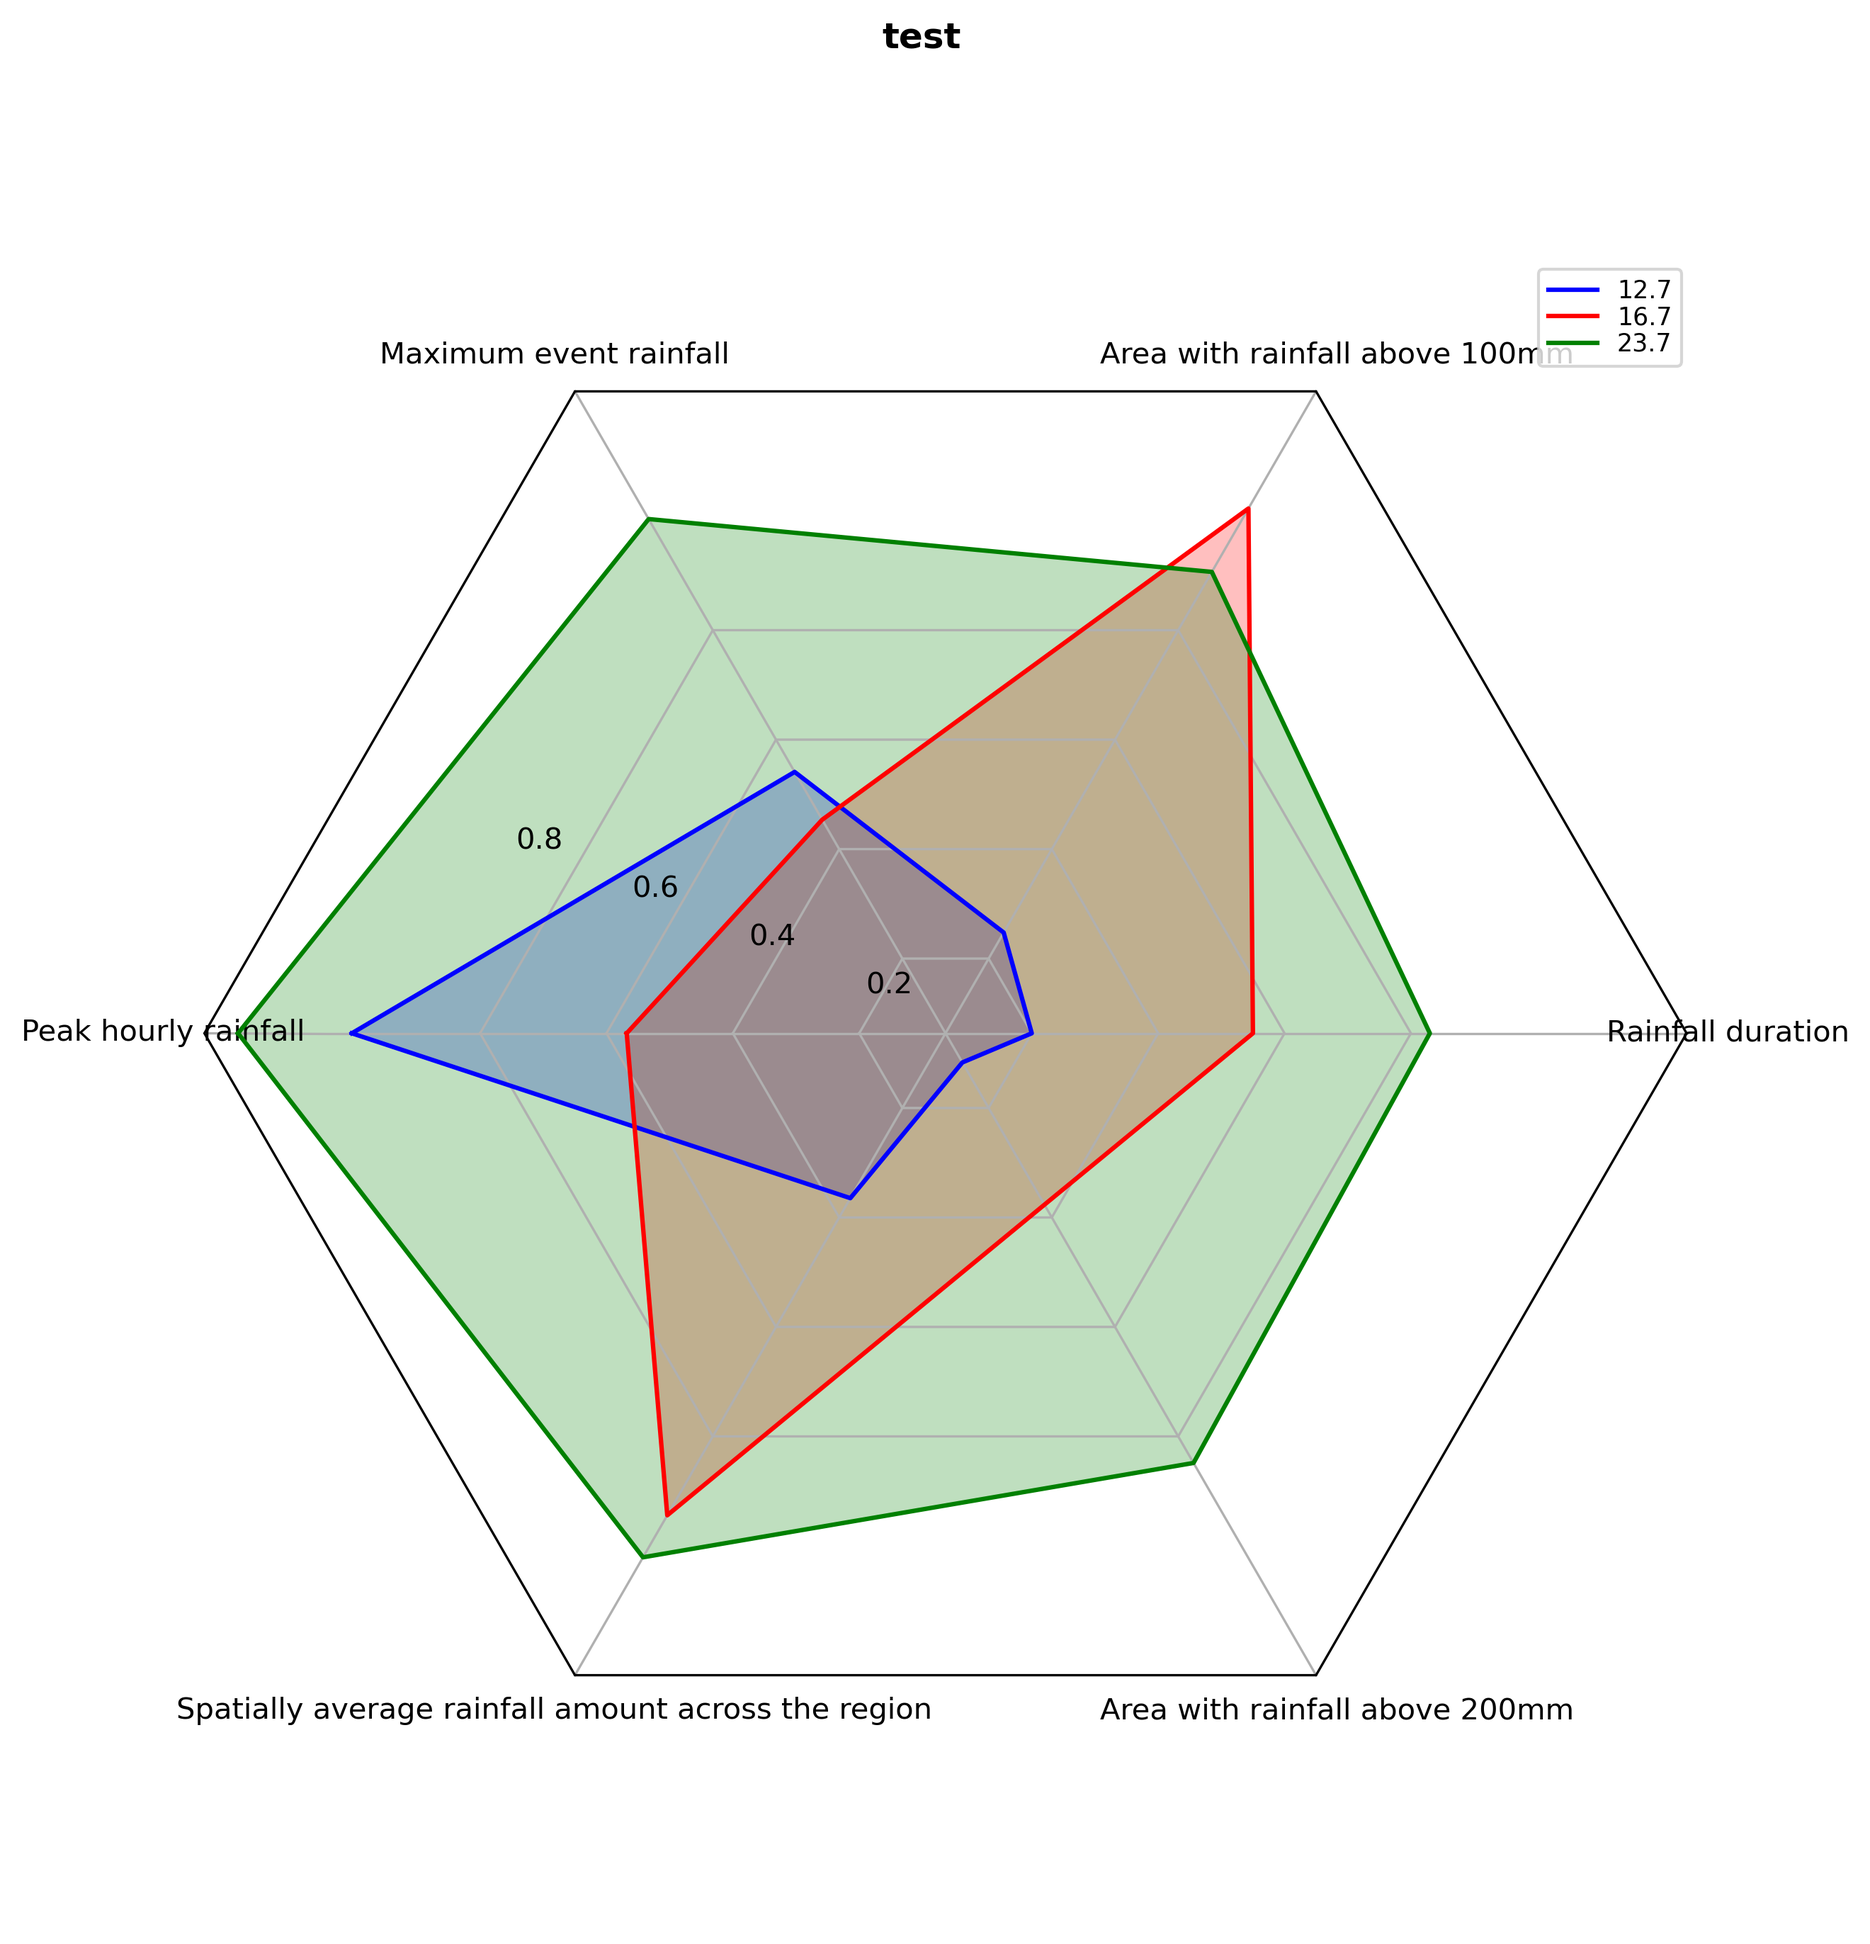
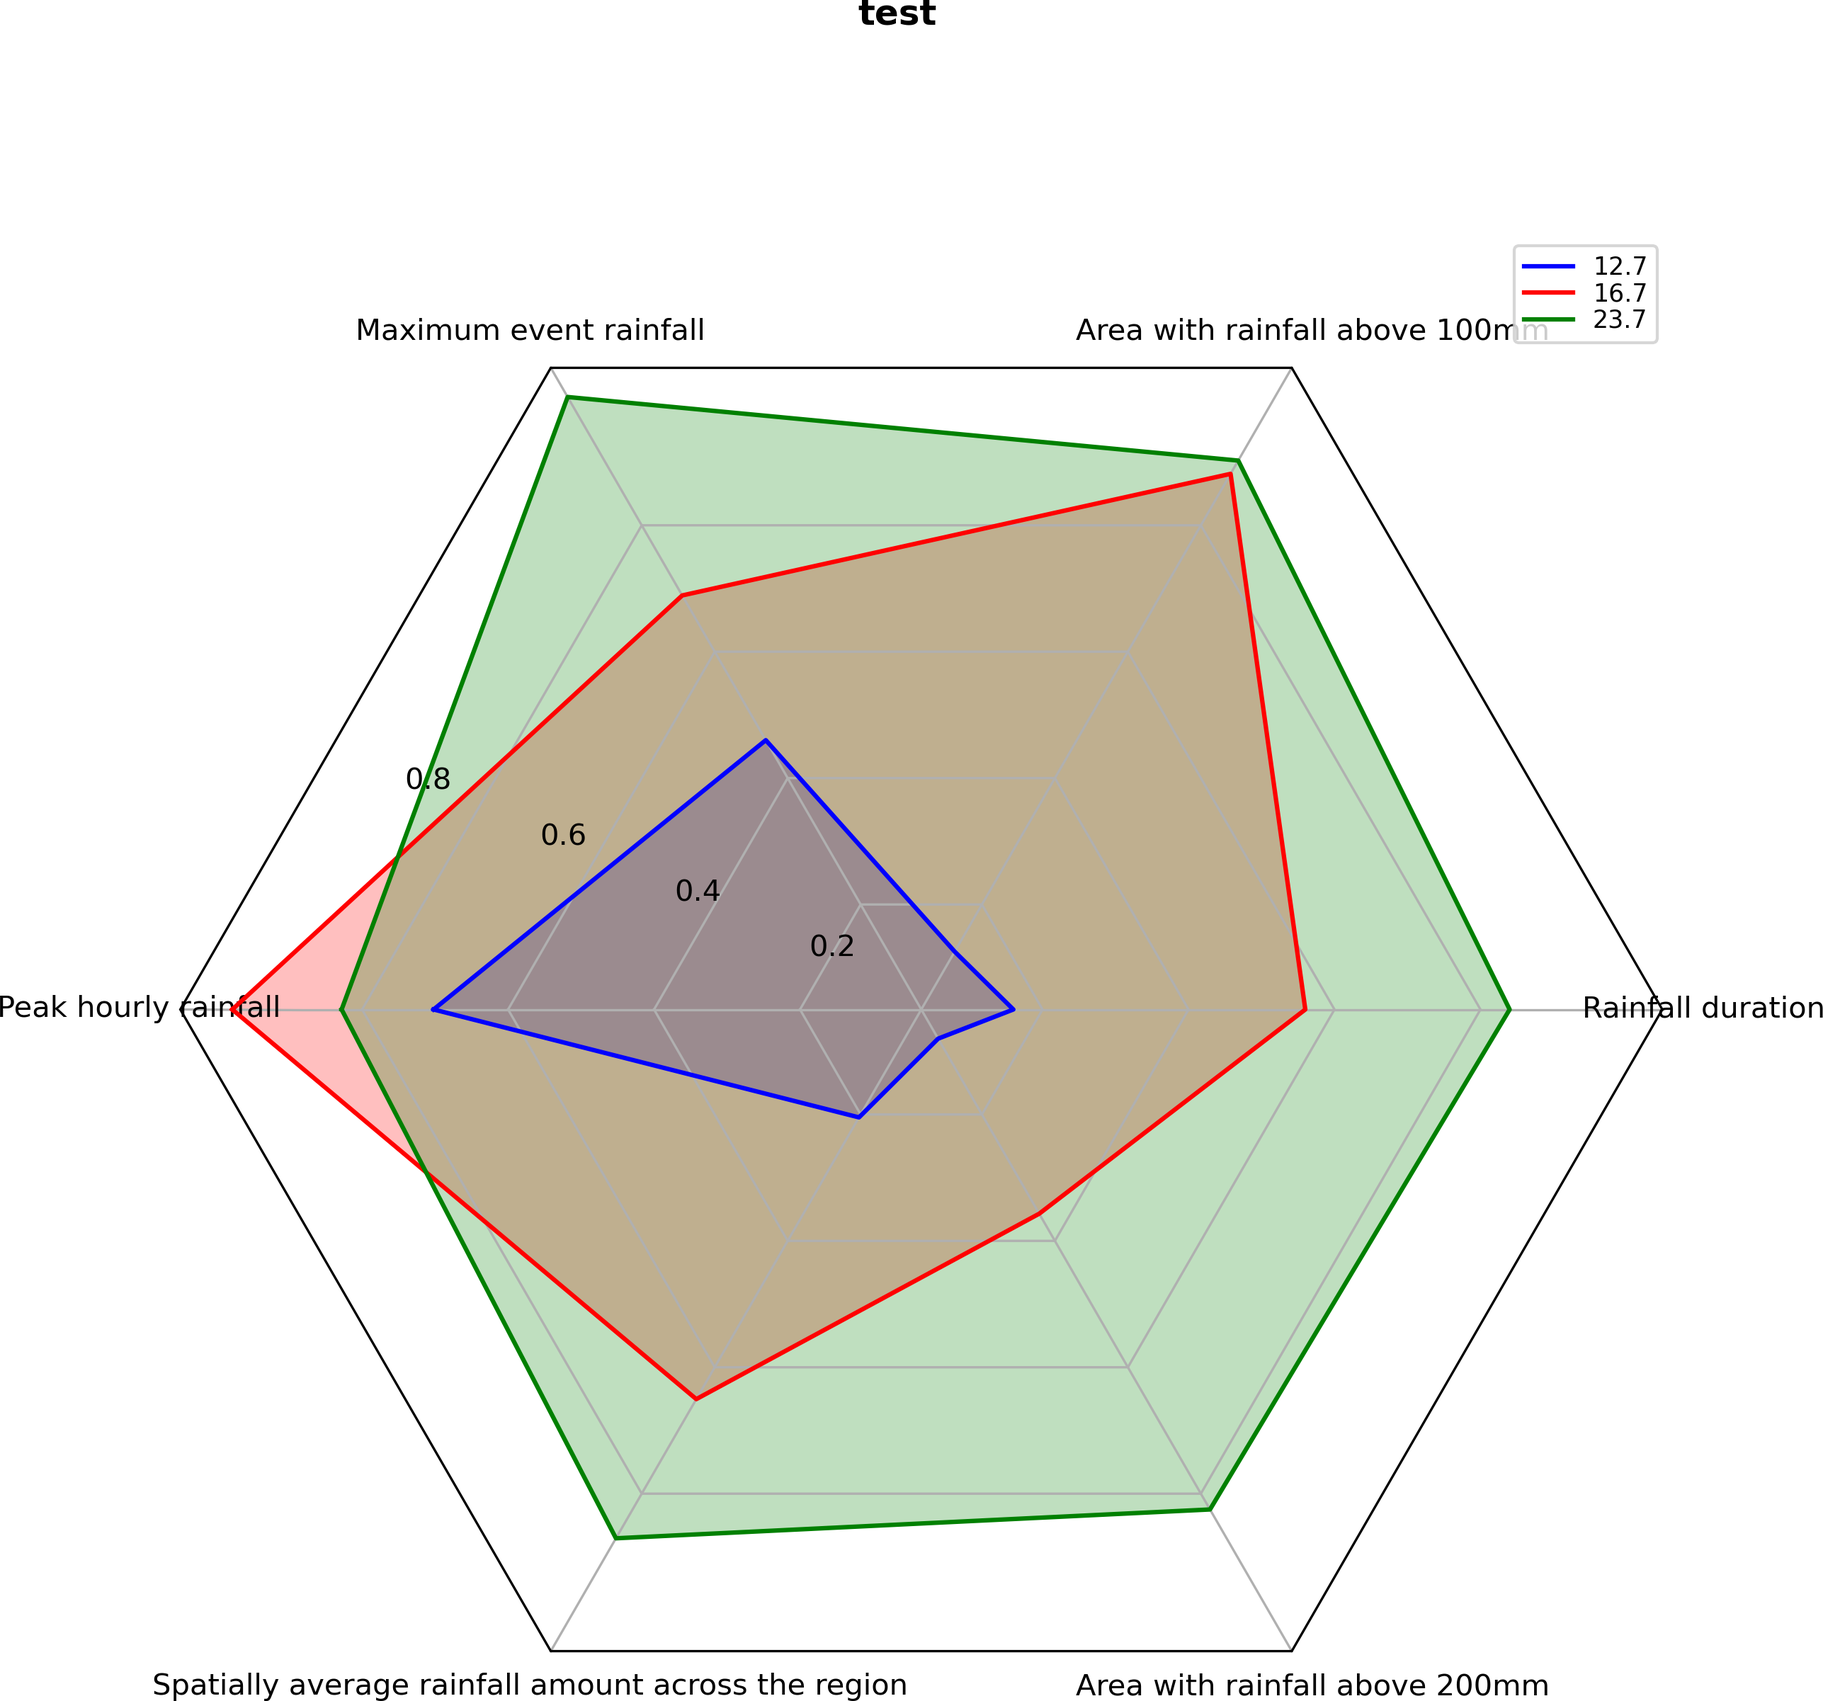
update radar plot

diff --git a/Figure1/plot_radar.py b/Figure1/plot_radar.py
@@ -126,9 +126,9 @@ def example_data():
         #['Rainfall duration', 'Area with rainfall above 50mm', 'Area with rainfall above 100mm', 'Maximum rainfall event', 'Spatially averaged rainfall amount across the region', 'Peak hourly rainfall'],
         ['Peak hourly rainfall', 'Maximum event rainfall', 'Area with rainfall above 100mm', 'Rainfall duration', 'Area with rainfall above 200mm', 'Spatially average rainfall amount across the region'],
         ('', [
-            [1.003, 0.541, 0.0495148*5, 0.20, 0.11681, 0.364731],
-            [0.568, 0.4537, 0.204464*5, 0.55, 0.376662, 0.944137],
-            [1.183, 1.003, 0.181292*5, 0.83, 0.84852, 1.0209]]),
+            [1.003*0.7, 0.460, 0.209 * 0.6 , 0.16, 0.08, 0.341*0.6],
+            [1.397*0.7, 0.689, 1.469 * 0.6 , 0.56, 0.357, 1.084*0.6],
+            [1.183*0.7, 1.003, 1.504 * 0.6, 0.84, 0.825, 1.451*0.6]]),
     ]
     return data
 
